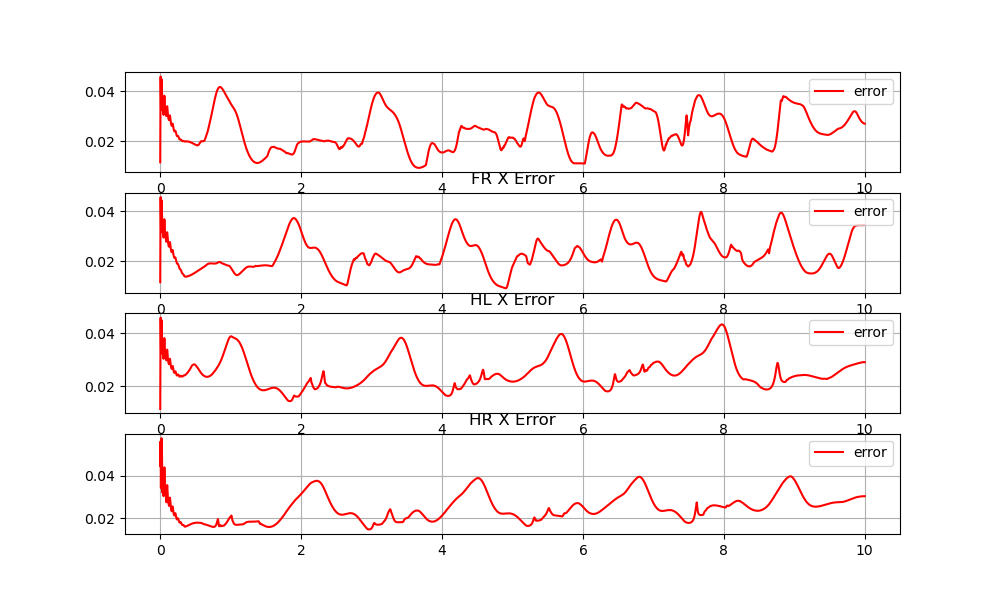
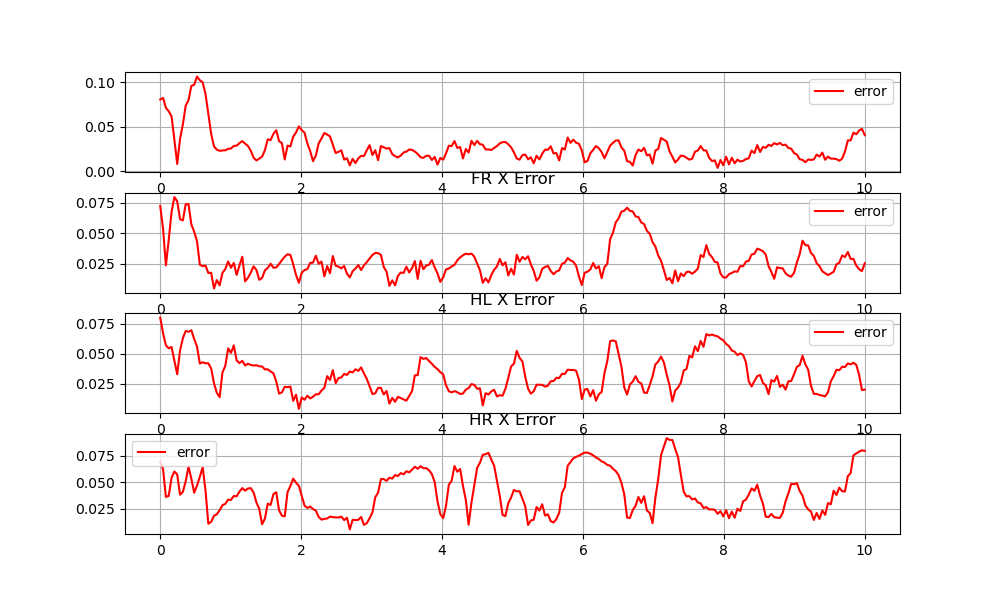
bezier curve gait tuned

diff --git a/SOLO12_SIM_CONTROL/robot/robot.py b/SOLO12_SIM_CONTROL/robot/robot.py
@@ -93,7 +93,7 @@ class SOLO12(object):
         self.EE_WORLD = {"FL_W_POSE": base_frame_tf(self.tfBaseMtx, self.get_endeffector_pose()['FL_FOOT']['linkWorldPosition']), "FR_W_POSE": base_frame_tf(self.tfBaseMtx , self.get_endeffector_pose()['FR_FOOT']['linkWorldPosition']),
                                     "HL_W_POSE": base_frame_tf(self.tfBaseMtx , self.get_endeffector_pose()['HL_FOOT']['linkWorldPosition']), "HR_W_POSE": base_frame_tf(self.tfBaseMtx , self.get_endeffector_pose()['HR_FOOT']['linkWorldPosition'])}
         if sim_cfg['mode'] == "bezier":
-            self.shiftZ = 0.05
+            self.shiftZ = 0.10
             self.shift = {'FL_FOOT': shift_z(self.EE_WORLD['FL_W_POSE'], self.shiftZ), 'FR_FOOT': shift_z(self.EE_WORLD['FR_W_POSE'], self.shiftZ),
                      'HL_FOOT': shift_z(self.EE_WORLD['HL_W_POSE'], self.shiftZ), 'HR_FOOT': shift_z(self.EE_WORLD['HR_W_POSE'], self.shiftZ)}
         elif sim_cfg['mode'] == "towr":
@@ -456,15 +456,8 @@ class SOLO12(object):
         Raises:
             NotImplementedError: _description_
         """
-        qa = self.q[7:]
-        qa_dot = self.qdot[6:]
 
-        q_REF = np.concatenate((cmd['FL_FOOT']['P'], cmd['FR_FOOT']['P'], cmd['HL_FOOT']['P'], cmd['HR_FOOT']['P']))
-
-        qa_ref = np.zeros(12)
-        qa_dot_ref = np.zeros(12)
-
-        K = 10.
+        K = 25.
 
         ID_FL = self.ROBOT.model.getFrameId("FL_FOOT")
         ID_FR = self.ROBOT.model.getFrameId("FR_FOOT")
@@ -511,7 +504,6 @@ class SOLO12(object):
         J = np.vstack([oJ_FLxz, oJ_FRxz, oJ_HLxz, oJ_HRxz]) #12 x 12
 
         q_dot_ref = - K * np.linalg.pinv(J) @ nu # 12 x 12 X 12 x 1 => 12 x 1
-
 
         # Computing the updated configuration
         q_ref = pin.integrate(self.ROBOT.model, self._joint_ang, q_dot_ref * self._time_step)

diff --git a/scripts/debug.py b/scripts/debug.py
@@ -137,7 +137,7 @@ def simulation(args={}):
             if sim_cfg['mode'] == "bezier":
                 gait_traj, newCmd = gait.runTrajectory(velocity, angle, angle_velocity, offsets, step_period, trot_2_stance_ratio)
                 if newCmd:
-                    joint_ang, joint_vel, joint_toq = ROBOT.control_multi(gait_traj, ROBOT.EE_index['all'], mode=ROBOT.mode)
+                    joint_ang, joint_vel, joint_toq = ROBOT.control_multi(gait_traj, ROBOT.EE_index['all'], mode=ROBOT.mode, usePin=True)
                     ROBOT.set_joint_control_multi(ROBOT.jointidx['idx'], ROBOT.mode, joint_ang, joint_vel, joint_toq)
                     p.stepSimulation()
                     print(f"Steps [{sim_step:.3f}]")

diff --git a/SOLO12_SIM_CONTROL/utils.py b/SOLO12_SIM_CONTROL/utils.py
@@ -139,6 +139,7 @@ def trajectory_2_world_frame(robot, traj, bezier=False, towr=False, original_tra
                                     np.array([traj[link][mode][1] + robot.shift[link][1]]),  
                                     np.array([traj[link][mode][2] + robot.shift[link][2]]), 
                                     np.ones(1)))
+                # breakpoint()
             elif towr:
                 vec = np.concatenate((np.array([traj[link][mode][0]]), 
                                     np.array([traj[link][mode][1]]), 
